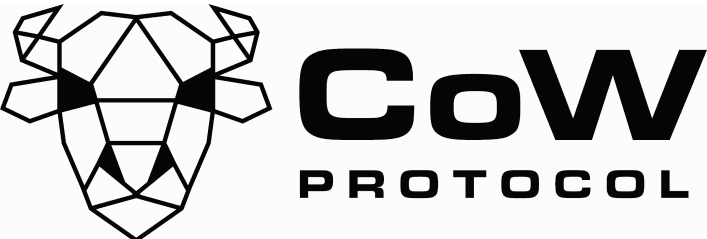
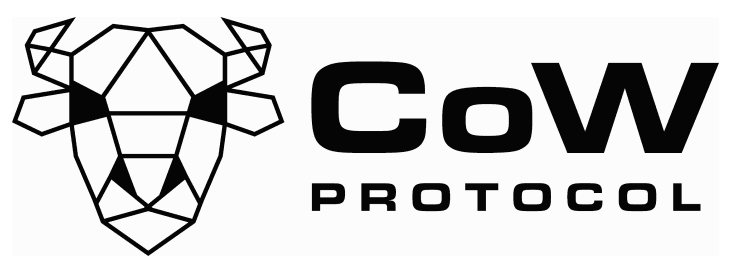
Add marging

diff --git a/src/index.ts b/src/index.ts
@@ -1,1 +1,1 @@
-export * from './Sdk'
+export * from './CowSdk'
